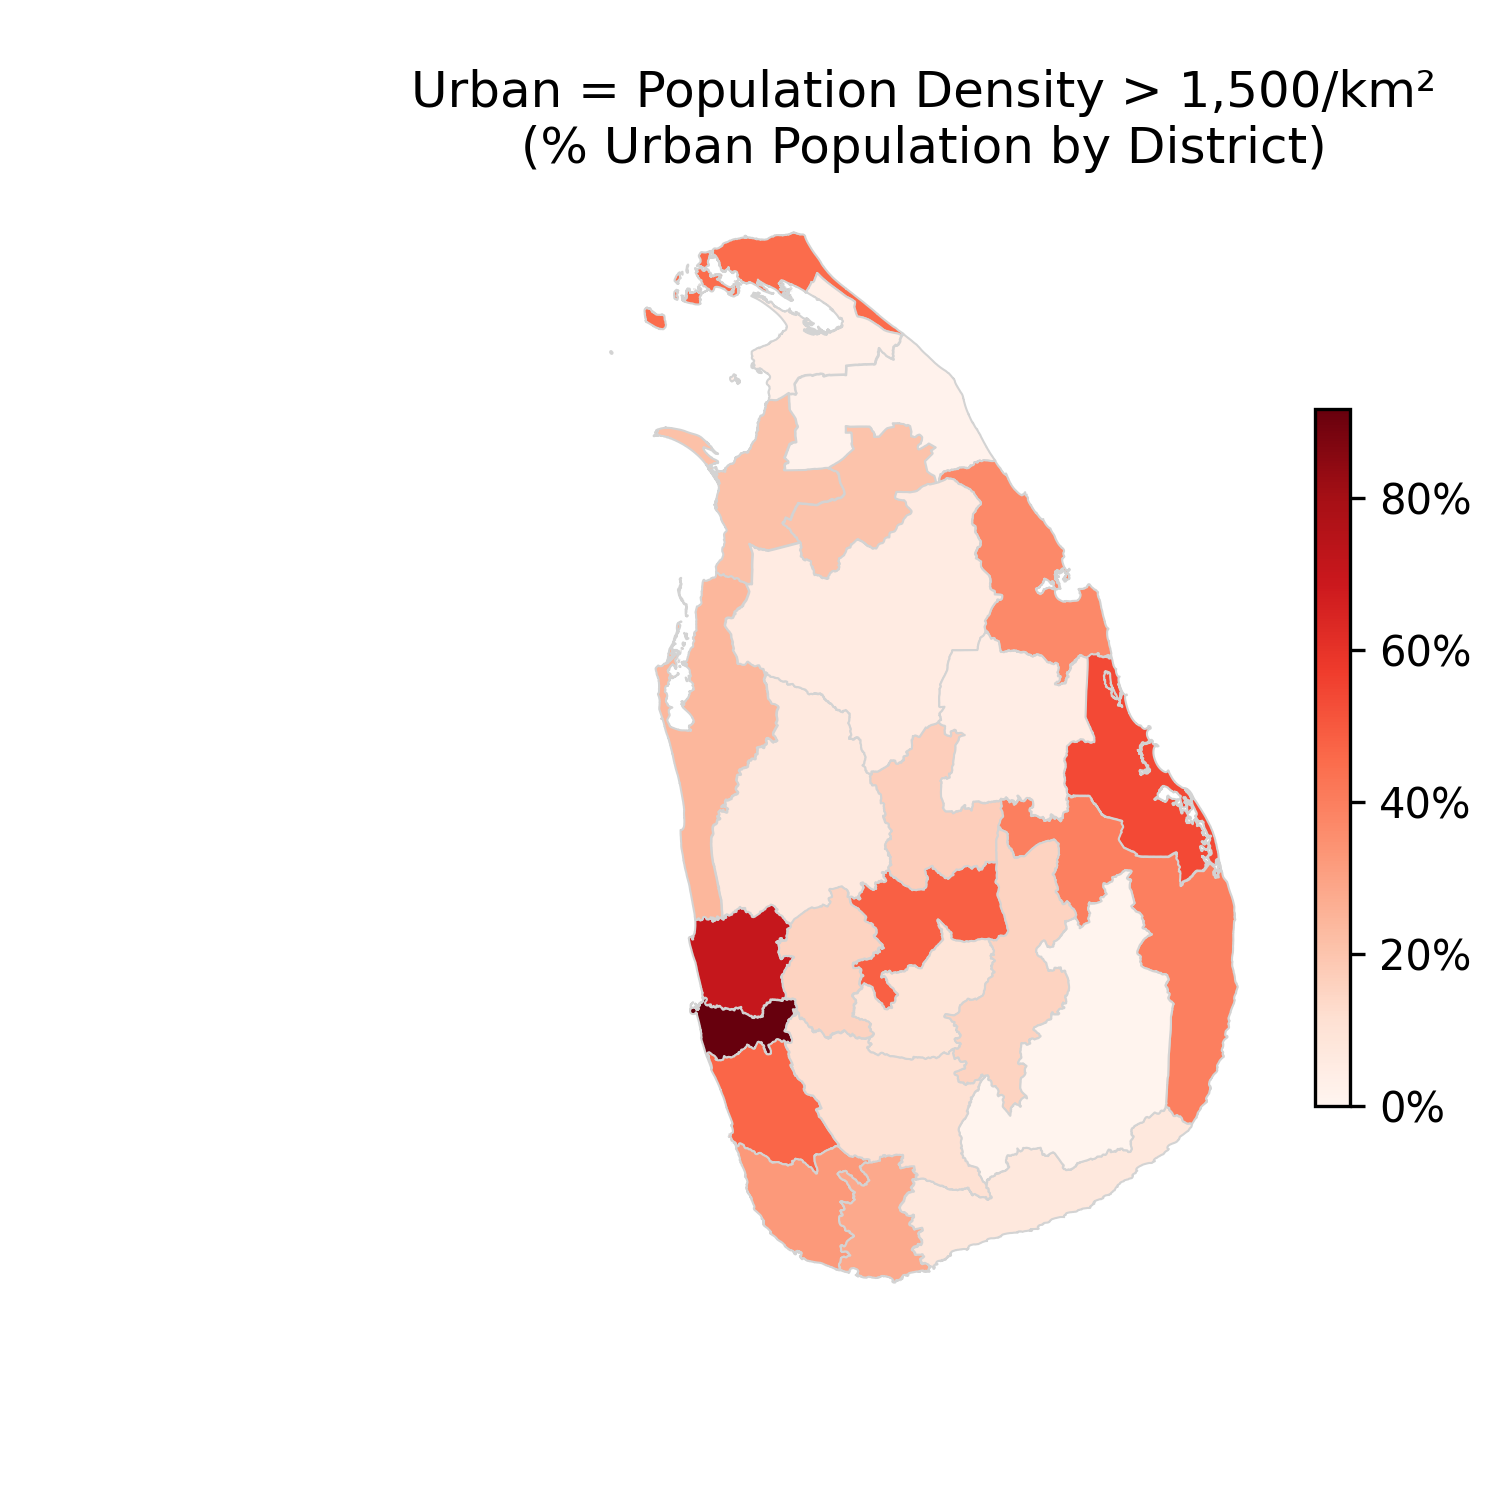
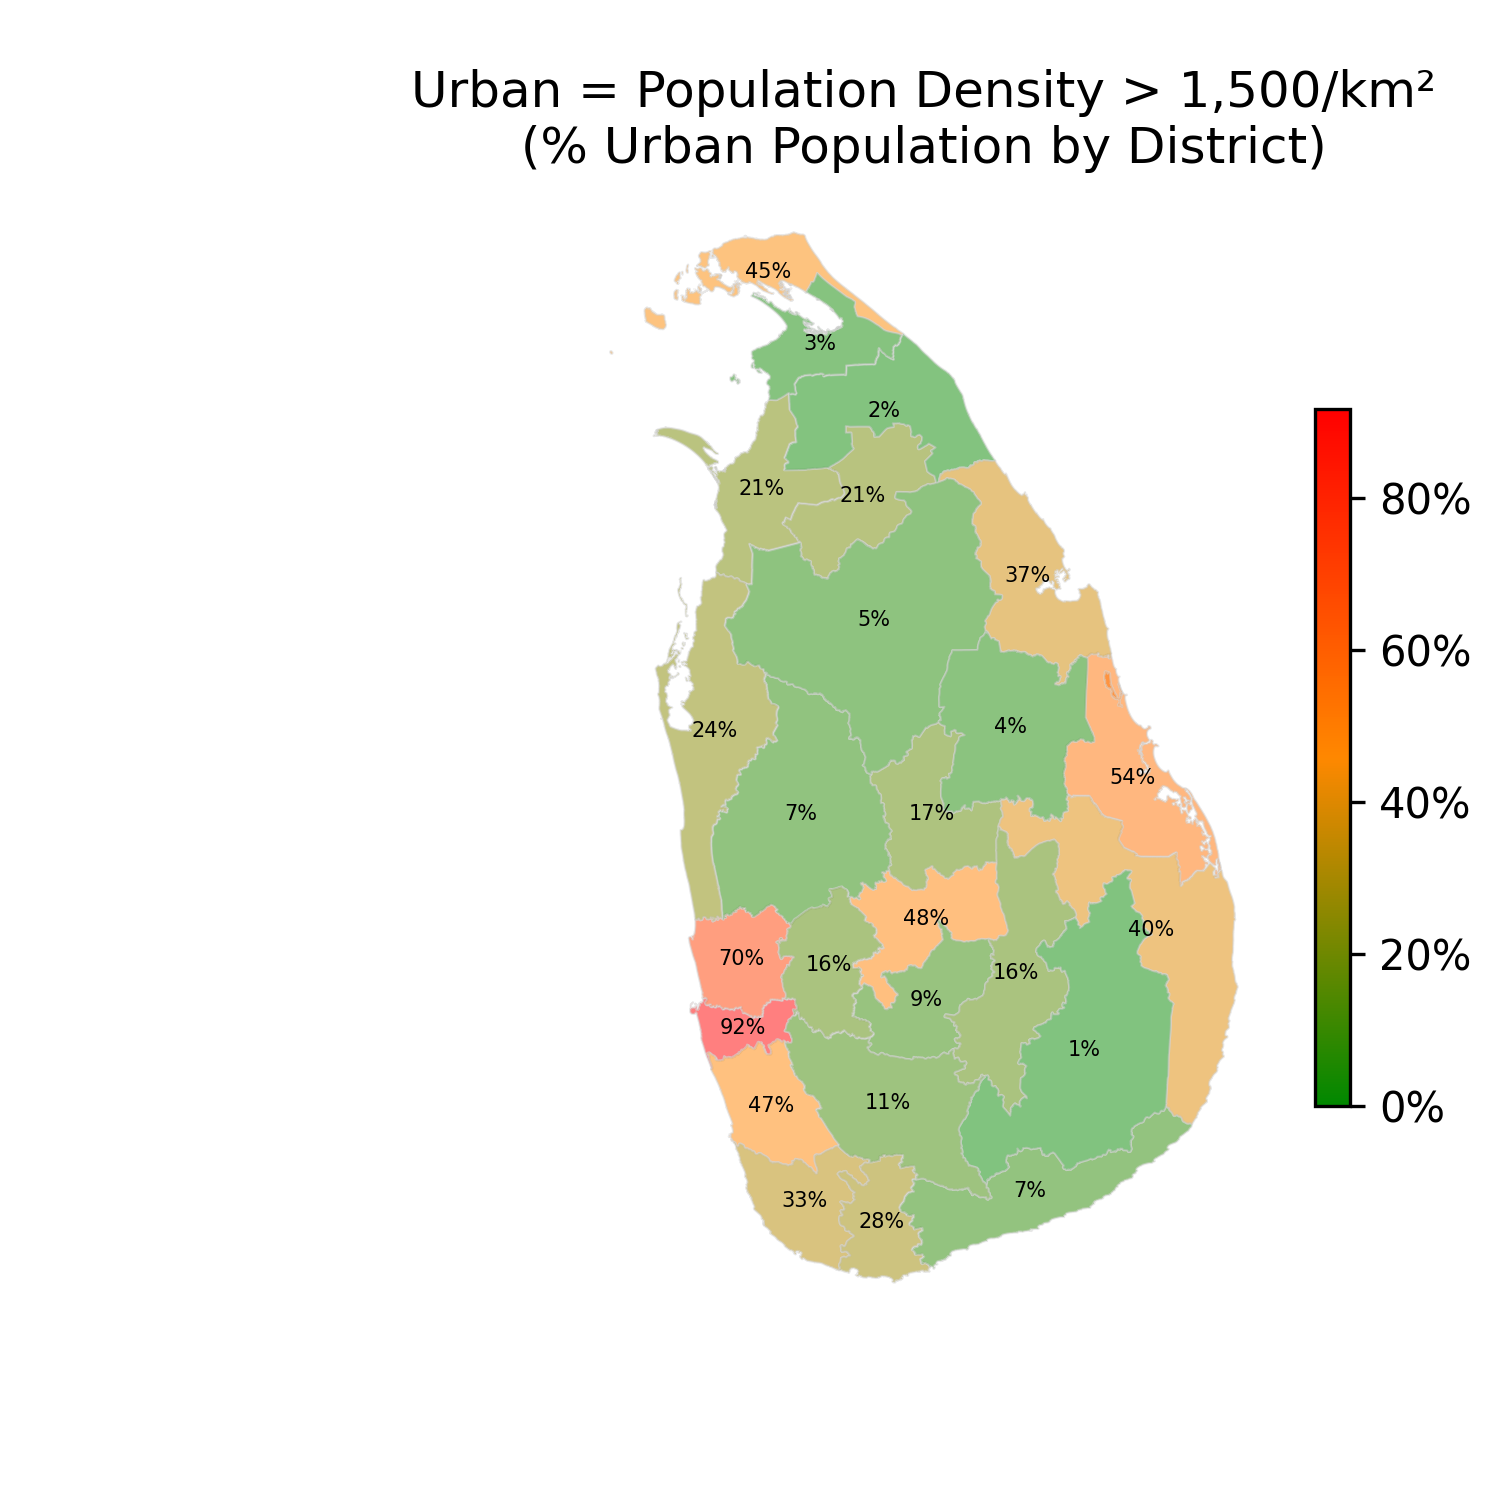
Enhance choropleth visualization with custom color map and district labels

Changed region(s): [[0.4293, 0.1533, 0.828, 0.8587], [0.8587, 0.276, 0.92, 0.736]]

diff --git a/src/lk_urban/AbstractUrbanMap.py b/src/lk_urban/AbstractUrbanMap.py
@@ -121,17 +121,32 @@ class AbstractUrbanMap(ABC):
     def _draw_district_choropleth(
         self, ax, districts: list[Ent], ratios: dict[str, float]
     ):
-        cmap = cm.Reds
+        cmap = mcolors.LinearSegmentedColormap.from_list(
+            "green_orange_red",
+            ["#008800", "#ff8800", "#ff0000"],
+        )
         norm = mcolors.Normalize(
             vmin=0, vmax=max(ratios.values()) if ratios else 1
         )
         for district in districts:
             p = ratios.get(district.id, 0)
-            district.geo().plot(
+            geo = district.geo()
+            geo.plot(
                 ax=ax,
                 color=cmap(norm(p)),
+                alpha=0.5,
                 edgecolor="lightgray",
                 linewidth=0.5,
+            )
+            centroid = geo.geometry.centroid.iloc[0]
+            ax.text(
+                centroid.x,
+                centroid.y,
+                f"{p:.0%}",
+                ha="center",
+                va="center",
+                fontsize=5,
+                color="black",
             )
         sm = cm.ScalarMappable(cmap=cmap, norm=norm)
         sm.set_array([])
